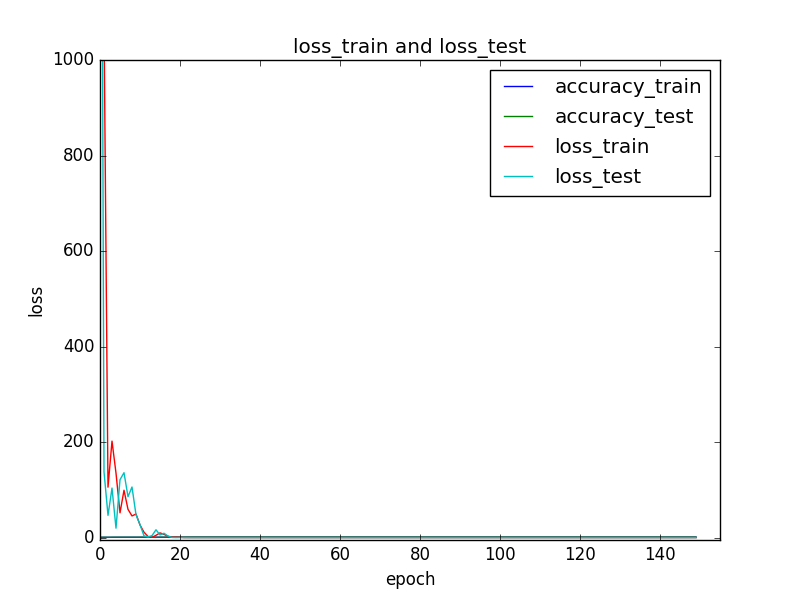
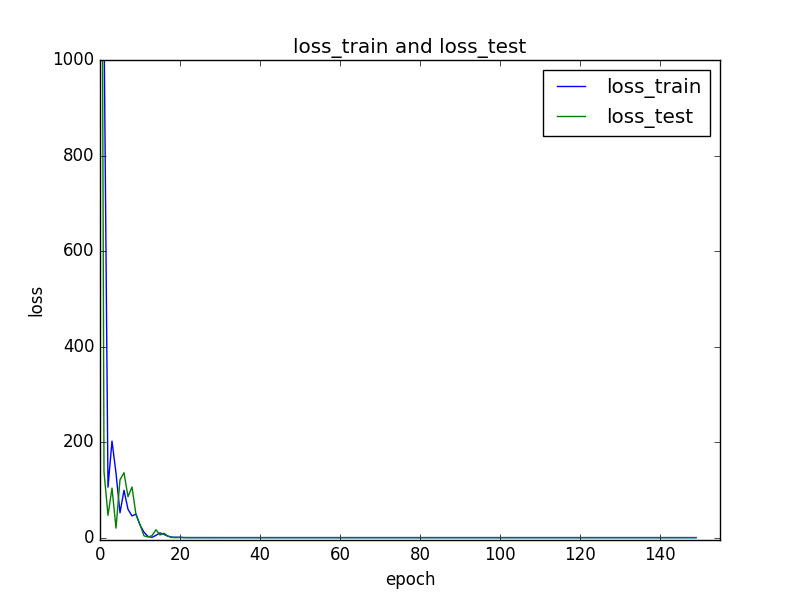
modify loss.png and add readcsv.py

Changed region(s): [[0.5938, 0.09, 0.9062, 0.33], [0.125, 0.12, 0.875, 0.9]]

diff --git a/readcsv.py b/readcsv.py
@@ -1,0 +1,59 @@
+import numpy as np
+import sys
+import matplotlib.pyplot as plt
+
+data = []
+accuracy_train, accuracy_test = [], []
+loss_train, loss_test = [], []
+epoch = []
+
+data = np.loadtxt(sys.argv[1], delimiter=',', dtype='float')
+
+for i in xrange(len(data)):
+    if i % 4 == 0:
+        loss_train.append(data[i])
+    elif i % 4 == 1:
+        accuracy_train.append(data[i])
+    elif i % 4 == 2:
+        loss_test.append(data[i])
+    elif i % 4 == 3:
+        accuracy_test.append(data[i])
+
+for i in xrange(len(loss_train)):
+    print("loss_train{0}: {1}".format(i, loss_train[i]))
+
+for i in xrange(len(accuracy_train)):
+    print("accuracy_train{0}: {1}".format(i, accuracy_train[i]))
+
+for i in xrange(len(loss_test)):
+    print("loss_test{0}: {1}".format(i, loss_test[i]))
+
+for i in xrange(len(accuracy_test)):
+    print("accuracy_test{0}: {1}".format(i, accuracy_test[i]))
+
+
+for i in xrange(len(accuracy_train)):
+    epoch.append(i)
+
+plt.plot(epoch, accuracy_train, label = "accuracy_train")
+plt.plot(epoch, accuracy_test, label = "accuracy_test")
+plt.legend(loc='lower right')
+plt.title("accuracy_train and accuracy_test")
+plt.xlabel("epoch")
+plt.ylabel("accuracy")
+plt.xlim(-1, 155)
+plt.ylim(0, 1.05)
+# plt.show()
+plt.savefig("accuracy.png")
+plt.clf()
+
+plt.plot(epoch, loss_train, label = "loss_train")
+plt.plot(epoch, loss_test, label = "loss_test")
+plt.legend()
+plt.title("loss_train and loss_test")
+plt.xlabel("epoch")
+plt.ylabel("loss")
+plt.xlim(0, 155)
+plt.ylim(-5, 1000)
+# plt.show()
+plt.savefig("loss.png")
